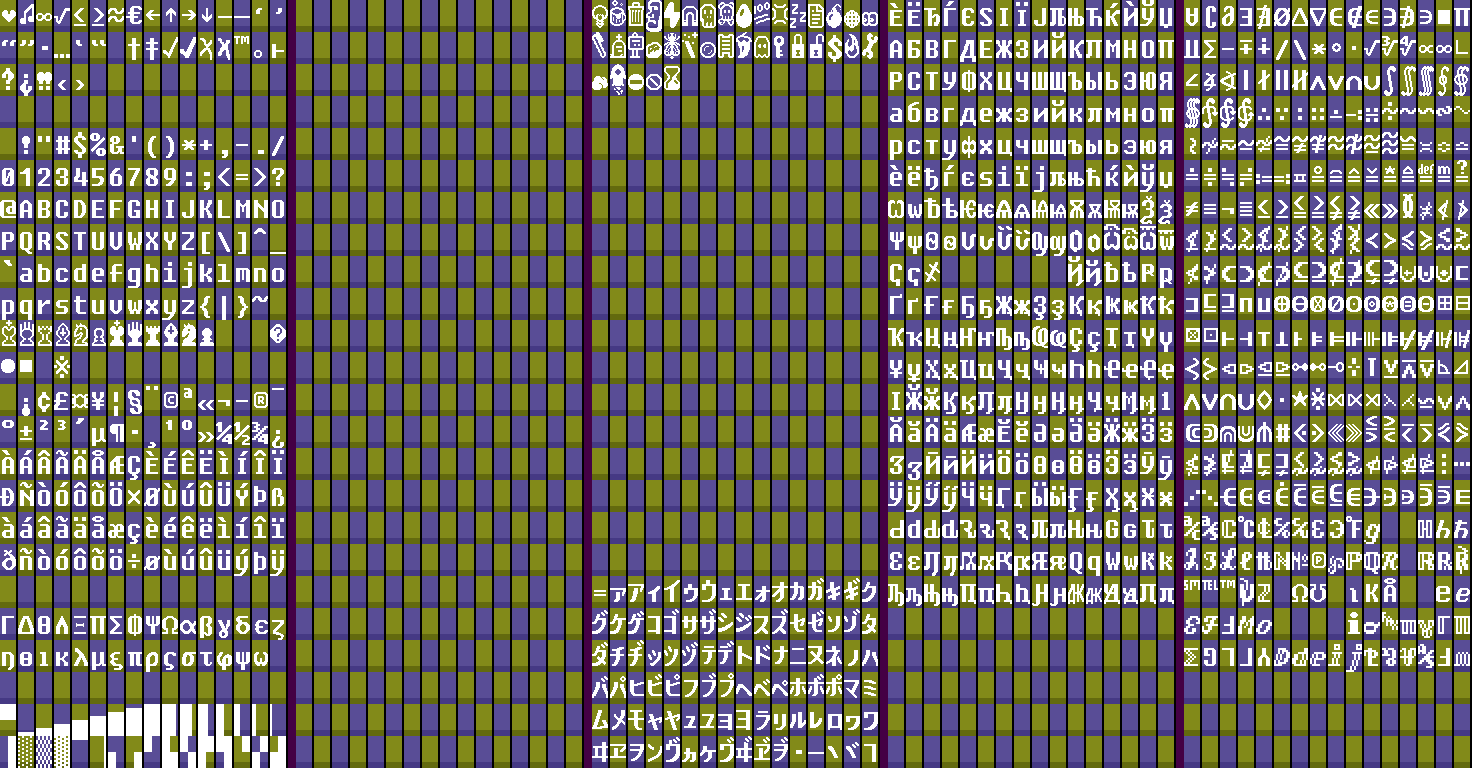
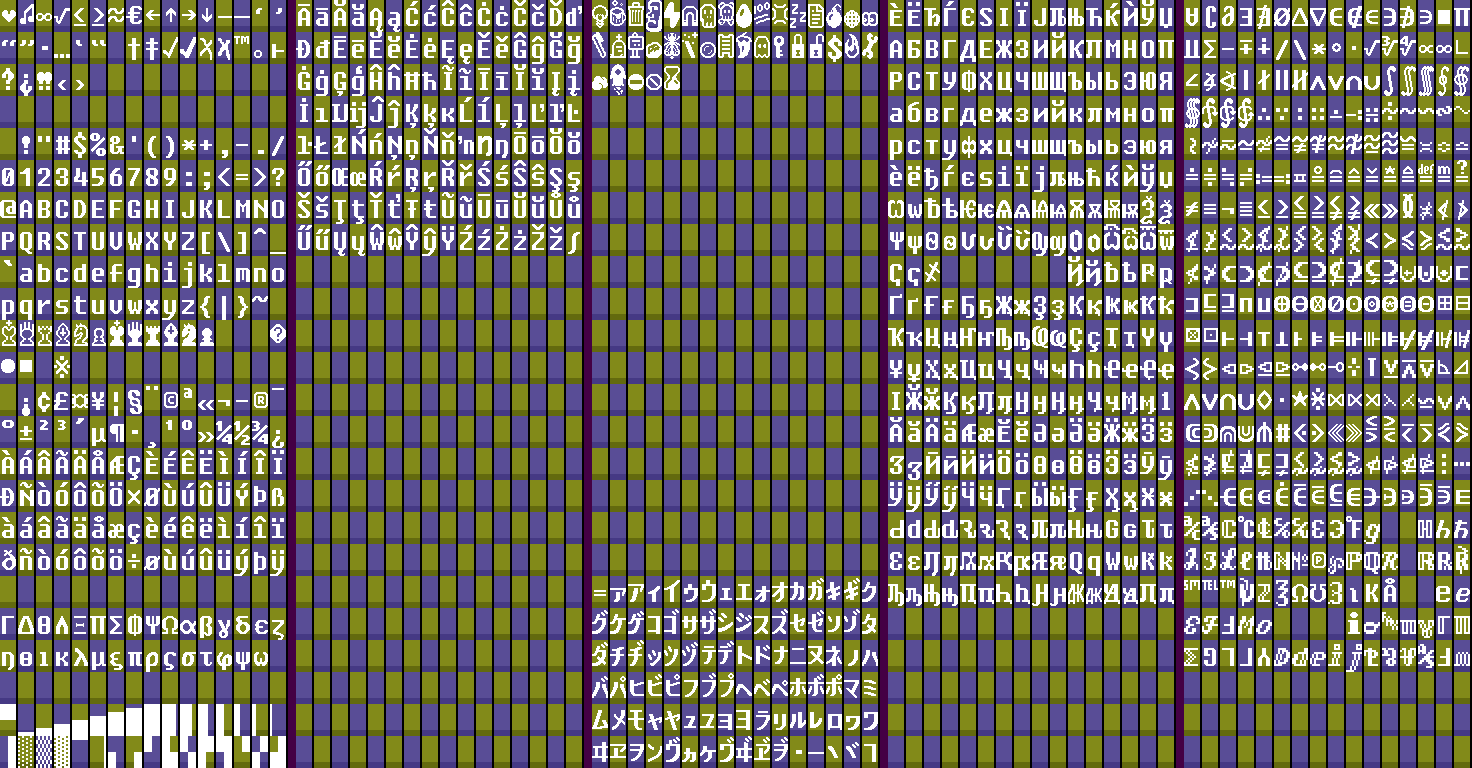
Add Latin Extended A for 1x and 2x. Move unicode wikipedia analysis (since this is all I use it for) and output just the currently-unmapped codepoints
git-svn-id: file:///home/runner/work/tom7misc-sync-action/tom7misc-sync-action/upstream/trunk@6419 c7e11af0-4c7a-11f1-9edd-117cb6f09d55

Changed region(s): [[0.1875, 0.0, 0.4062, 0.3438], [0.8438, 0.75, 0.875, 0.7812]]

diff --git a/bit7/wikipedia-unicode.cc b/bit7/wikipedia-unicode.cc
@@ -1,6 +1,4 @@
 
-#include "wikipedia.h"
-
 #include <algorithm>
 #include <cstdint>
 #include <memory>
@@ -12,6 +10,8 @@
 #include <utility>
 #include <vector>
 
+#include "../acronymine/wikipedia.h"
+
 #include "ansi.h"
 #include "base/logging.h"
 #include "base/stringprintf.h"
@@ -20,13 +20,10 @@
 #include "timer.h"
 #include "utf8.h"
 #include "util.h"
-#include "wikipedia.h"
+
+#include "font-image.h"
 
 using namespace std;
-
-using uint8 = uint8_t;
-using uint32 = uint32_t;
-using uint64 = uint64_t;
 
 [[maybe_unused]]
 static constexpr const char *WIKIPEDIA_FILE =
@@ -55,6 +52,10 @@ static void Process() {
       Wikipedia::Create(WIKIPEDIA_FILE));
   CHECK(wiki.get() != nullptr) << WIKIPEDIA_FILE;
   #endif
+
+  Config config = Config::ParseConfig("fixedersys2x.cfg");
+  FontImage font(config);
+  CHECK(font.MappedCodepoint('*')) << "Couldn't load the font?";
 
   Timer timer;
 
@@ -135,8 +136,10 @@ static void Process() {
               return a.second > b.second;
             });
   for (const auto &[code, count] : sorted) {
-    std::string utf8 = UTF8::Encode(code);
-    StringAppendF(&out, "U+%04x (%s): %lld\n", code, utf8.c_str(), count);
+    if (!font.MappedCodepoint(code)) {
+      std::string utf8 = UTF8::Encode(code);
+      StringAppendF(&out, "U+%04x (%s): %lld\n", code, utf8.c_str(), count);
+    }
   }
 
   Util::WriteFile("unicode.txt", out);

diff --git a/bit7/font-image.h b/bit7/font-image.h
@@ -94,6 +94,8 @@ struct FontImage {
     return unicode_to_glyph;
   }
 
+  bool MappedCodepoint(uint32_t codepoint) const;
+
   // Maps from codepoint to glyph index in vector below.
   std::unordered_map<int, int> unicode_to_glyph;
 
@@ -103,7 +105,6 @@ struct FontImage {
 
  private:
   void AddPage(const ImageRGBA &img, Page p);
-  void InitUnicode();
 };
 
 // For drawing to ImageRGBA.

diff --git a/bit7/font-image.cc b/bit7/font-image.cc
@@ -1782,7 +1782,8 @@ void FontImage::SaveImage(const std::string &filename) {
   out.Save(filename);
 }
 
-void FontImage::InitUnicode() {
+bool FontImage::MappedCodepoint(uint32_t codepoint) const {
+  return unicode_to_glyph.contains(codepoint);
 }
 
 BitmapFont::BitmapFont(FontImage font_in) :
